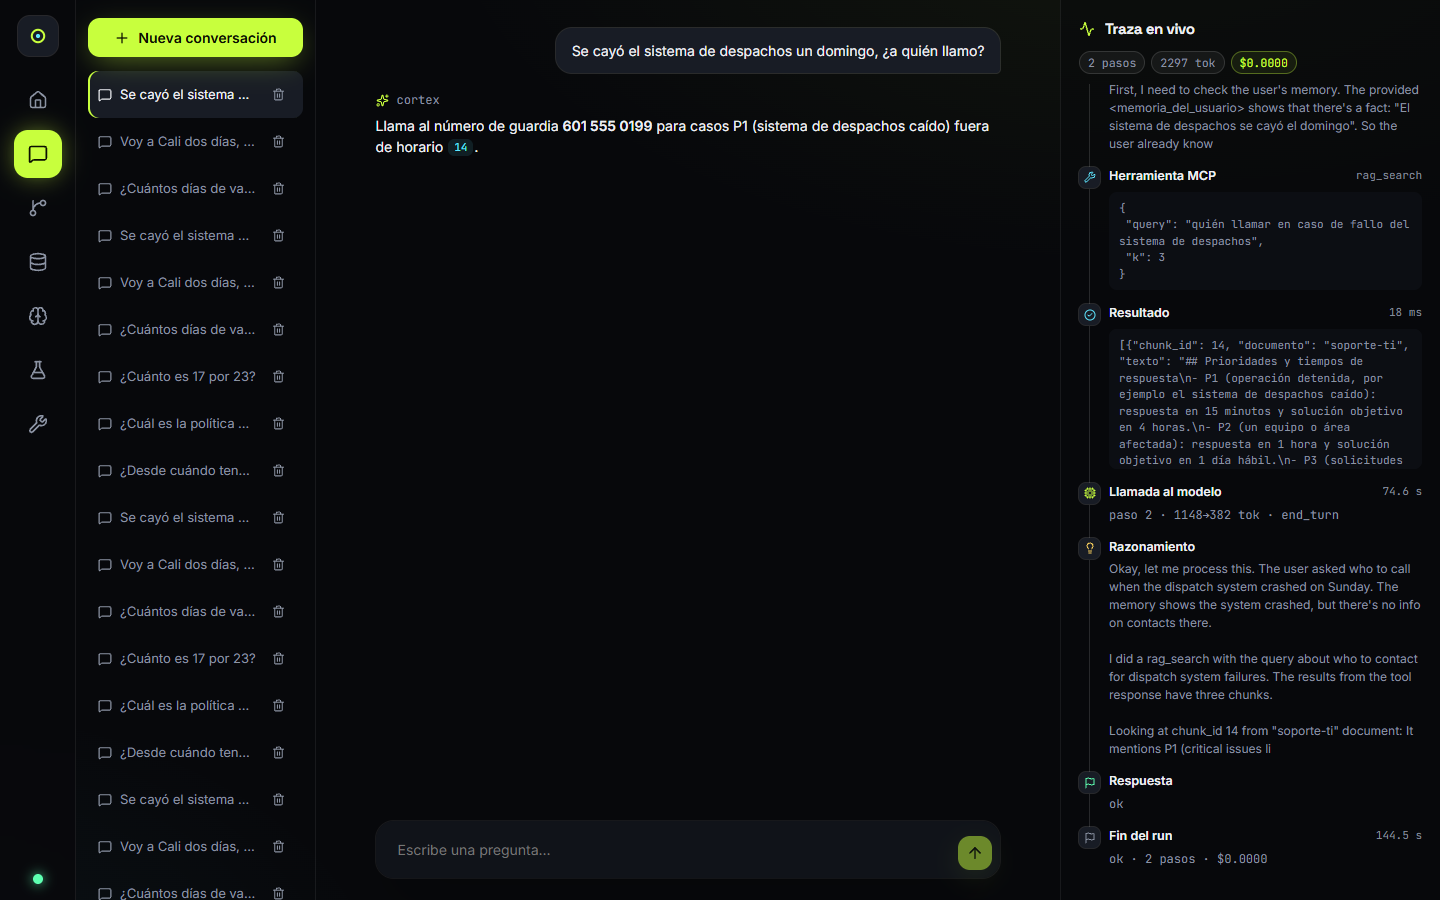
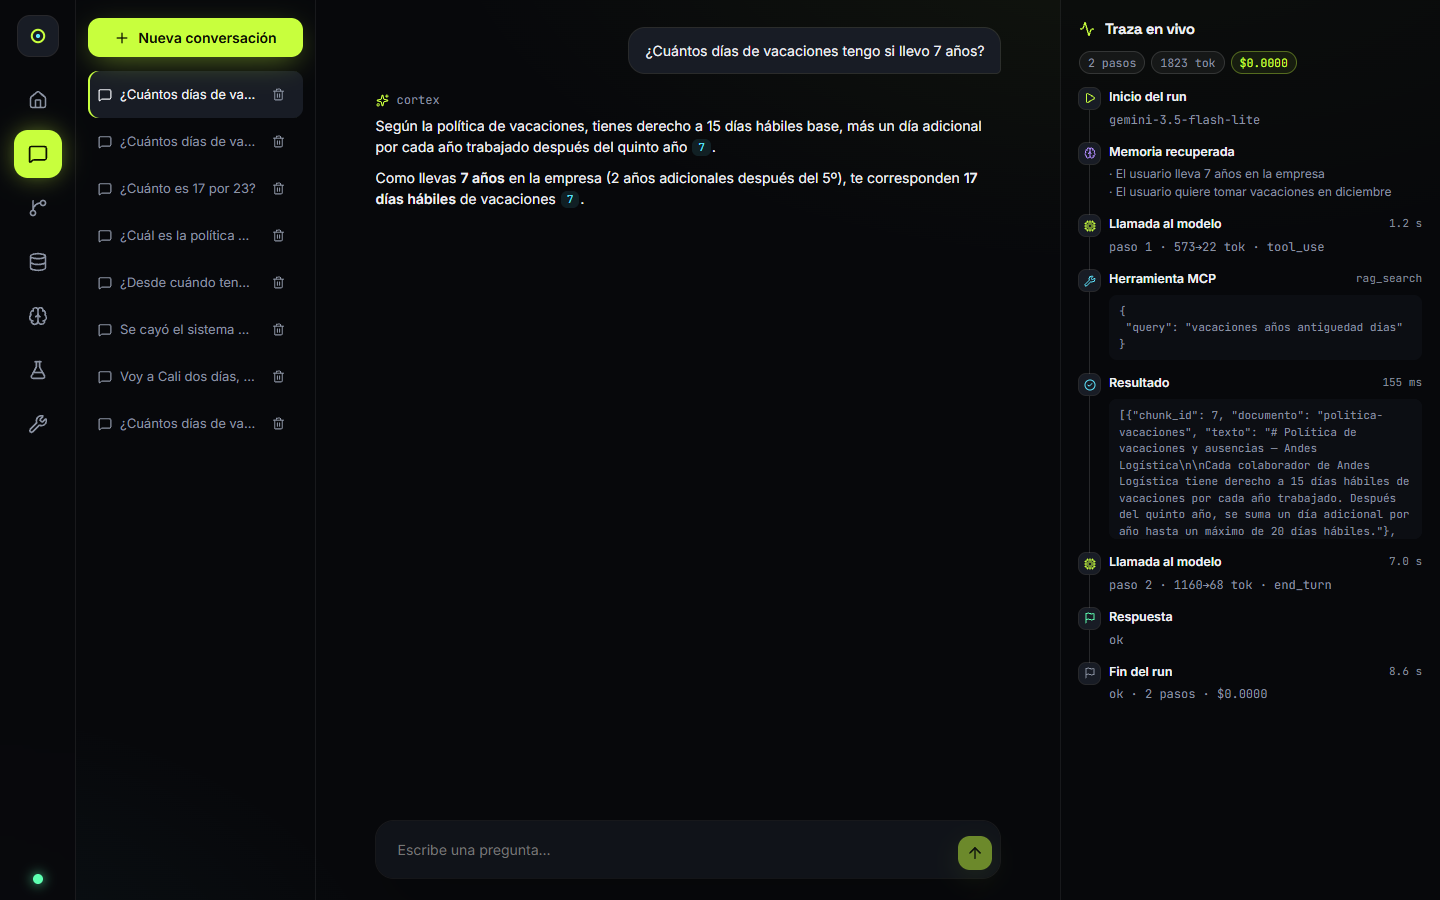
Agrega evidencias de la prueba con Gemini en la nube
Corrida única con un traductor temporal fuera del repo: eval de agente
5 de 6 y chat correcto en 8,6 s. No valida los parámetros propios de Claude.

diff --git a/docs/evidencias/README.md b/docs/evidencias/README.md
@@ -1,4 +1,27 @@
-# Evidencias de prueba (2026-11-05)
+# Evidencias de prueba
+
+## Prueba con un modelo real en la nube (2026-11-05)
+
+Corrida única con la capa gratuita de Gemini, sobre una base de datos limpia. Se usó un traductor temporal de la API de Anthropic a la de Gemini, fuera del repo y ya eliminado; la app no cambió ni usa Gemini.
+
+**No valida Claude.** El traductor descarta `betas`, `fallbacks`, `thinking`, `cache_control` y `effort`, así que esa parte de `harness.py` sigue sin probarse contra la API de Claude. El costo aparece en $0 porque esos modelos no están en la tabla de precios.
+
+| Prueba | Modelo | Resultado |
+|---|---|---|
+| Eval de agente + juez | `gemini-3.6-flash` | **5 de 6**, recall 1,00, fidelidad y relevancia 5/5 |
+| Herramienta correcta | `gemini-3.6-flash` | 6 de 6 |
+| Chat por la interfaz | `gemini-3.5-flash-lite` | 17 días con cita, 2 pasos, **8,6 s** |
+
+- **a06:** el agente respondió, pero el juez no lo calificó: se agotó la cuota gratuita de 20 peticiones diarias de ese modelo. No es un fallo del agente.
+- **Chat con otro modelo:** esa misma cuota cortó una primera pregunta con `gemini-3.6-flash`, que aparece como `error` en `../img/trazas.png`. La pregunta se repitió una vez con `gemini-3.5-flash-lite`.
+- **Latencia del eval:** los 43,4 s de media incluyen las esperas del traductor (mínimo 7,5 s entre peticiones) y los reintentos por cuota. Sin esas esperas, los primeros casos terminaron en 10 a 16 s, en su mayoría.
+- **Intentos descartados:** antes hubo dos corridas sin ningún resultado del modelo: `gemini-2.5-flash` ya no está disponible para cuentas nuevas y `gemini-3.8-flash` estaba saturado.
+
+Archivos: `eval-agente-gemini.txt`, `latencia-chat-gemini.txt`, `gemini-evals.png`, `../img/chat.png`, `../img/trazas.png`.
+
+---
+
+## Prueba con modelo local (2026-11-05)
 
 Modelo: `qwen3:4b` local con Ollama 0.40.14, sobre el endpoint compatible con Anthropic, en una GPU AMD RX 5700. **No es una prueba contra Claude.** Con este backend, los parámetros `betas`, `fallbacks` y `cache_control` no quedan validados, y el costo aparece en $0.
 
@@ -36,7 +59,7 @@ La API no era el cuello de botella: sus endpoints responden en 10 ms o menos. El
 - `eval-agente.txt`: corrida inicial con `qwen3:8b`
 - `eval-agente-qwen3-4b-1.txt` y `-2.txt`: corridas finales
 - `latencia-chat.txt`: última medición por la interfaz, con preguntas seguidas
-- `evals-agente.png`, `../img/chat.png`, `../img/trazas.png`, `../img/inicio.png`
+- `evals-agente.png`, `../img/inicio.png`
 
 ## Fallo de calidad detectado
 

diff --git a/HANDOFF.md b/HANDOFF.md
@@ -11,9 +11,10 @@ Una sola app que reúne un harness de agente propio, MCP, RAG, memoria y evals, 
 - Servidor MCP por stdio probado: `python -m app.mcp_server`.
 - Repo privado en GitHub (`JuanSGarciaC/cortex-agent`), con CI en verde.
 - Probado con un modelo real y local (`qwen3:4b` en Ollama): el eval de agente aprobó 5 de 6 y 6 de 6, y el chat responde en 28 a 177 s. Detalle en `docs/evidencias/README.md`.
+- Probado una vez con Gemini en la nube, mediante un traductor temporal ya eliminado: eval de agente 5 de 6 y chat de 8,6 s con la respuesta correcta. Detalle en `docs/evidencias/README.md`.
 
 ## Pendiente (en orden)
-1. **Probar con la API real de Claude.** Sigue sin hacerse: Ollama no valida los parámetros propios de Anthropic.
+1. **Probar con la API real de Claude.** Sigue sin hacerse: ni Ollama ni la prueba con Gemini validan los parámetros propios de Anthropic.
    - Poner `ANTHROPIC_API_KEY=sk-ant-...` en `backend/.env` y quitar las líneas de Ollama.
    - Prueba: «¿Cuántos días de vacaciones tengo si llevo 7 años?». Debe llamar `rag_search`, citar `[chunk_id]` y responder 17 días.
    - Si `harness.py` da 400, quitar primero `fallbacks` y `betas`.
